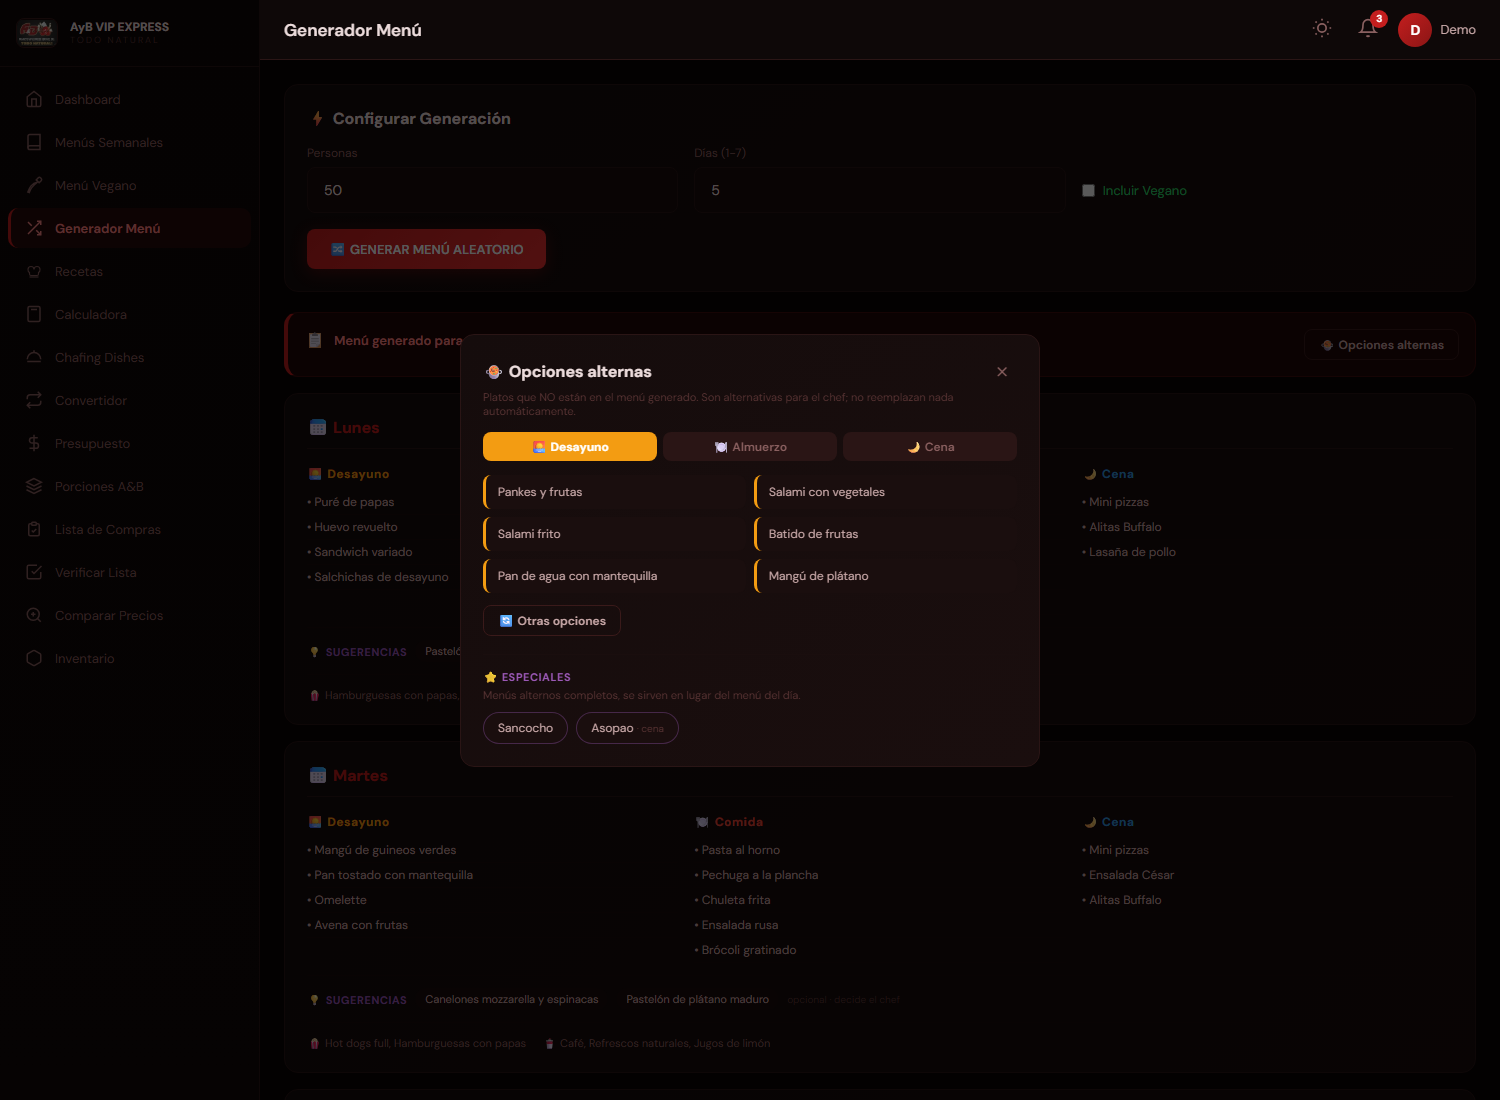
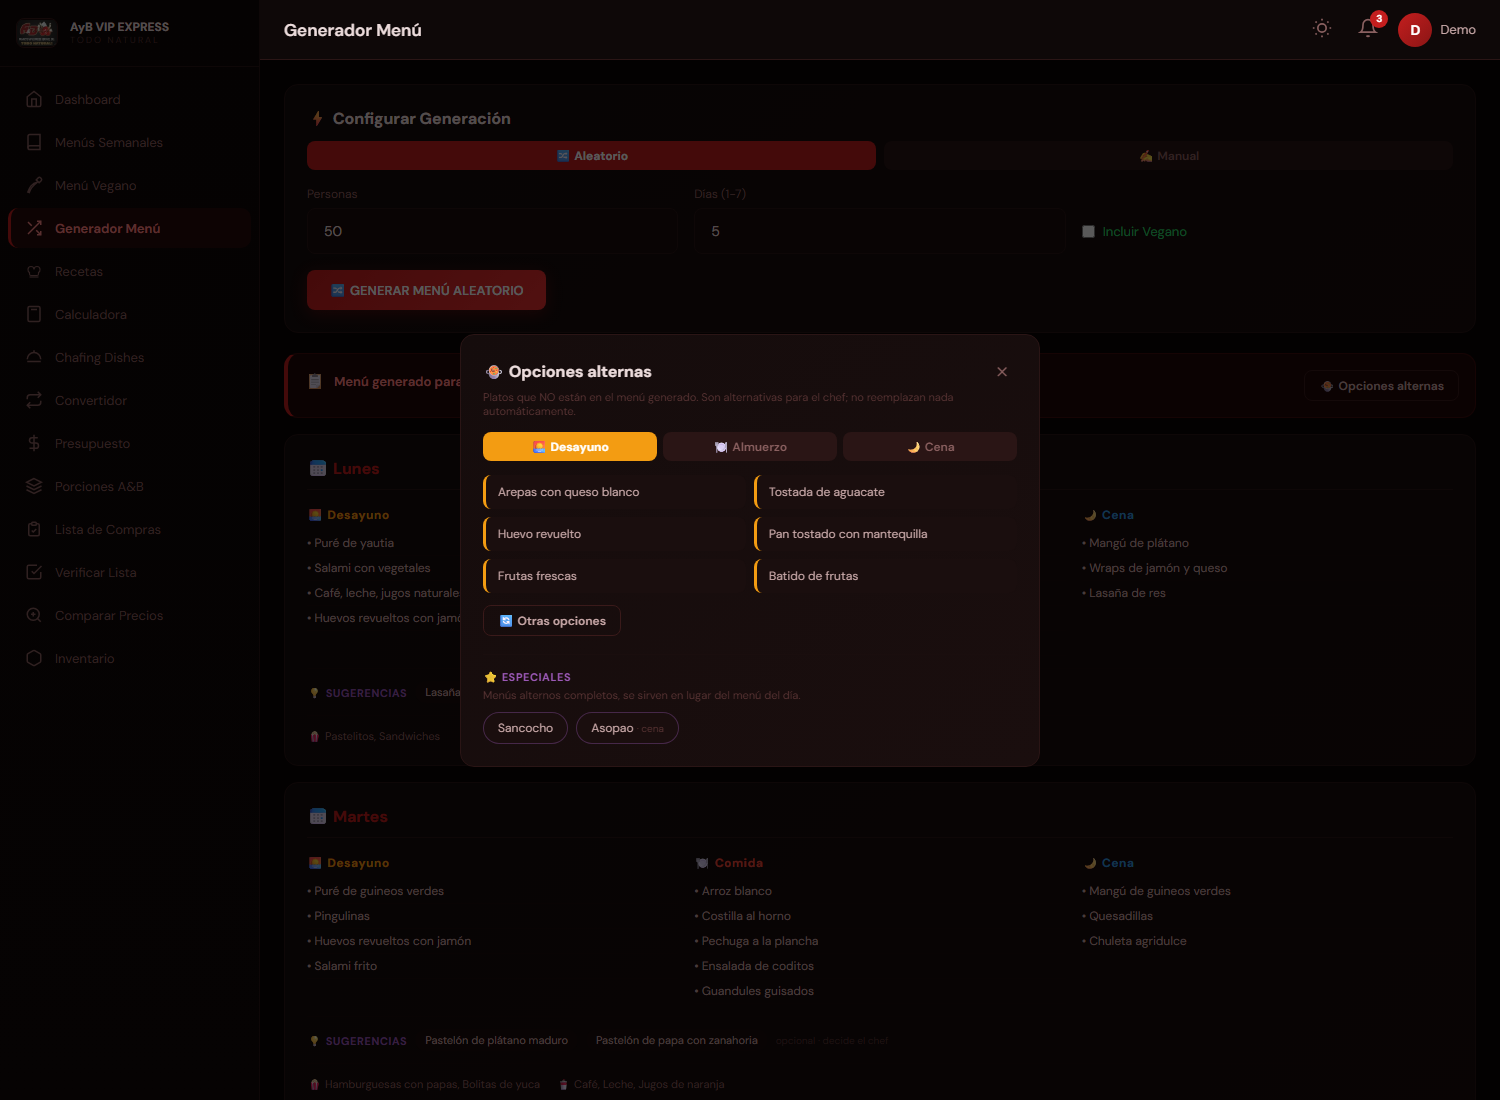
Generador: modo de armado manual de las tres comidas
Pestana Aleatorio / Manual. En manual se arma desayuno (4), comida (5) y
cena (3) por dia desde selectores, sin validacion: es modo libre y las
reglas de viver, granos y 2 proteinas no se aplican a proposito.

"Prellenar" parte de un menu generado en vez de 60 selectores vacios, y
manualSet no re-renderiza: el <select> ya muestra el cambio, y repintar
60 selectores en cada eleccion perderia el scroll.

El pool de cena suma los pures y mangus de DB.desayunos, y ademas todo
valor ya elegido. Sin eso el prellenado dejaba la cena en "vacio" cuando
el generador le ponia un viver que no vive en DB.cenas.

diff --git a/index.html b/index.html
@@ -2806,18 +2806,29 @@ function renderGenerador() {
 
   return `
     <div class="card fade-up" style="margin-bottom:20px">
-      <h3 style="color:var(--text-primary);margin:0 0 16px;font-size:16px">⚡ Configurar Generación</h3>
+      <h3 style="color:var(--text-primary);margin:0 0 12px;font-size:16px">⚡ Configurar Generación</h3>
+      <div style="display:flex;gap:8px;margin-bottom:16px">
+        ${[{id:'auto',l:'🔀 Aleatorio'},{id:'manual',l:'✍ Manual'}].map(m=>`<button class="btn btn-sm" style="flex:1;justify-content:center;background:${genModo===m.id?'var(--accent)':'var(--border)'};color:${genModo===m.id?'#fff':'var(--text-muted)'};${genModo===m.id?'font-weight:700':''}" onclick="setGenModo('${m.id}')">${m.l}</button>`).join('')}
+      </div>
       <div class="grid grid-3" style="align-items:end">
         <div><label style="color:var(--text-muted);font-size:12px;display:block;margin-bottom:6px">Personas</label>
           <input class="input" type="number" value="${genPersonas}" onchange="genPersonas=+this.value" style="margin:0"></div>
         <div><label style="color:var(--text-muted);font-size:12px;display:block;margin-bottom:6px">Días (1-7)</label>
-          <input class="input" type="number" value="${genDays}" min="1" max="7" onchange="genDays=Math.min(7,+this.value)" style="margin:0"></div>
+          <input class="input" type="number" value="${genDays}" min="1" max="7" onchange="genDays=Math.max(1,Math.min(7,+this.value));if(genModo==='manual')renderPage()" style="margin:0"></div>
         <div><label style="display:flex;align-items:center;gap:8px;cursor:pointer;padding:14px 0">
           <input type="checkbox" ${genVegan?'checked':''} onchange="genVegan=this.checked" style="accent-color:var(--green)">
           <span style="color:var(--green);font-size:13px">Incluir Vegano</span></label></div>
       </div>
-      <button class="btn btn-primary" style="margin-top:16px" onclick="doGenerate()">🔀 GENERAR MENÚ ALEATORIO</button>
+      ${genModo === 'auto'
+        ? `<button class="btn btn-primary" style="margin-top:16px" onclick="doGenerate()">🔀 GENERAR MENÚ ALEATORIO</button>`
+        : `<div style="display:flex;gap:10px;margin-top:16px;flex-wrap:wrap">
+             <button class="btn btn-primary" style="flex:1;min-width:180px;justify-content:center" onclick="manualAplicar()">✓ USAR ESTE MENÚ</button>
+             <button class="btn btn-secondary" onclick="manualPrellenar()">🔀 Prellenar</button>
+             <button class="btn btn-secondary" onclick="manualInit();renderPage()">Vaciar</button>
+           </div>
+           <p style="color:var(--text-dim);font-size:11px;margin:10px 0 0">Modo libre: aquí no se aplican las reglas de víver, granos ni 2 proteínas. Tú mandas.</p>`}
     </div>
+    ${genModo === 'manual' ? renderManual() : ''}
     ${resultHTML}
     ${renderModalAlternas()}`;
 }
@@ -2886,6 +2897,92 @@ function renderModalAlternas() {
         </div>
       </div>
     </div>`;
+}
+
+// ═══════════════════ ARMADO MANUAL ═══════════════════
+// Modo libre: el chef arma las tres comidas a mano, sin validación. Las reglas
+// del generador (víver, granos, 2 proteínas) NO se aplican aquí a propósito.
+let genModo = 'auto';     // 'auto' | 'manual'
+let manualMenu = null;    // [{des:[4], com:[5], cen:[3]}]
+
+const MANUAL_COLS = [
+  { k:'des', l:'🌅 Desayuno', c:'var(--orange)', n:4, db:'desayunos' },
+  { k:'com', l:'🍽 Comida',   c:'var(--red)',    n:5, db:'comidas'   },
+  { k:'cen', l:'🌙 Cena',     c:'var(--blue)',   n:3, db:'cenas'     },
+];
+
+const manualDiaVacio = () => Object.fromEntries(MANUAL_COLS.map(c => [c.k, Array(c.n).fill('')]));
+
+function manualInit() { manualMenu = Array.from({ length: genDays }, manualDiaVacio); }
+
+// Ajusta el largo si cambió el número de días, conservando lo ya elegido.
+function manualSync() {
+  if (!manualMenu) return manualInit();
+  while (manualMenu.length < genDays) manualMenu.push(manualDiaVacio());
+  manualMenu.length = genDays;
+}
+
+// Sin renderPage: el <select> ya muestra el cambio, y volver a pintar 60
+// selectores en cada elección perdería el scroll y se sentiría lento.
+function manualSet(d, comida, i, valor) { manualMenu[d][comida][i] = valor; }
+
+function setGenModo(m) { genModo = m; if (m === 'manual') manualSync(); renderPage(); }
+
+// Arranca desde un menú generado: 60 selectores en blanco no son un buen punto
+// de partida, y así el chef solo ajusta lo que quiere cambiar.
+function manualPrellenar() {
+  doGenerate();
+  manualMenu = genResult.map(x => Object.fromEntries(
+    MANUAL_COLS.map(c => [c.k, [...x[c.k], ...Array(c.n).fill('')].slice(0, c.n)])
+  ));
+  genResult = null;
+  genModo = 'manual';
+  renderPage();
+}
+
+function manualAplicar() {
+  manualSync();
+  genResult = manualMenu.map(d => ({
+    des: d.des.filter(Boolean),
+    com: d.com.filter(Boolean),
+    cen: d.cen.filter(Boolean),
+    sug: [],
+    snk: getRandom([...DB.snacks, ...(customMenus.snacks || [])], 2),
+    beb: getRandom(DB.bebidas, 3),
+    ...(genVegan ? { veg: [...getRandom(DB.vegano.desayunos,2), ...getRandom(DB.vegano.comidas,3), ...getRandom(DB.vegano.cenas,1)] } : {}),
+  }));
+  addNotif('✓ Menú manual aplicado');
+  renderPage();
+}
+
+function renderManual() {
+  manualSync();
+  const attr = s => s.replace(/&/g, '&amp;').replace(/"/g, '&quot;');
+  const dayNames = ["Lunes","Martes","Miércoles","Jueves","Viernes","Sábado","Domingo"];
+  return manualMenu.map((dia, d) => `
+    <div class="card fade-up" style="margin-bottom:16px;animation-delay:${d*0.05}s">
+      <h3 style="color:var(--accent);font-size:16px;margin:0 0 14px;padding-bottom:10px;border-bottom:1px solid var(--border)">📅 ${dayNames[d%7]}</h3>
+      <div class="grid grid-3">
+        ${MANUAL_COLS.map(c => {
+          // El generador puede poner un puré o mangú de cena, y esos platos viven
+          // en DB.desayunos: sin esto el selector no podría representarlos.
+          const extra = c.k === 'cen' ? DB.desayunos.filter(x => /\bmangú|\bmangu|\bpuré|\bpure|\bbollito/i.test(x)) : [];
+          // Y lo ya elegido entra al pool sí o sí: si el prellenado trae un plato
+          // de otra lista, el selector tiene que poder mostrarlo en vez de vaciarlo.
+          const enUso = manualMenu.flatMap(x => x[c.k]).filter(Boolean);
+          const pool = [...new Set([...DB[c.db], ...(customMenus[c.db] || []), ...extra, ...enUso])]
+            .sort((a,b) => a.localeCompare(b,'es'));
+          return `<div>
+            <div style="color:${c.c};font-size:12px;font-weight:700;margin-bottom:8px;letter-spacing:0.5px">${c.l}</div>
+            ${dia[c.k].map((val, i) => `
+              <select class="input" style="margin:0 0 6px;font-size:12px;padding:8px 10px" onchange="manualSet(${d},'${c.k}',${i},this.value)">
+                <option value="">— vacío —</option>
+                ${pool.map(p => `<option value="${attr(p)}"${p === val ? ' selected' : ''}>${p}</option>`).join('')}
+              </select>`).join('')}
+          </div>`;
+        }).join('')}
+      </div>
+    </div>`).join('');
 }
 
 function doGenerate() {
